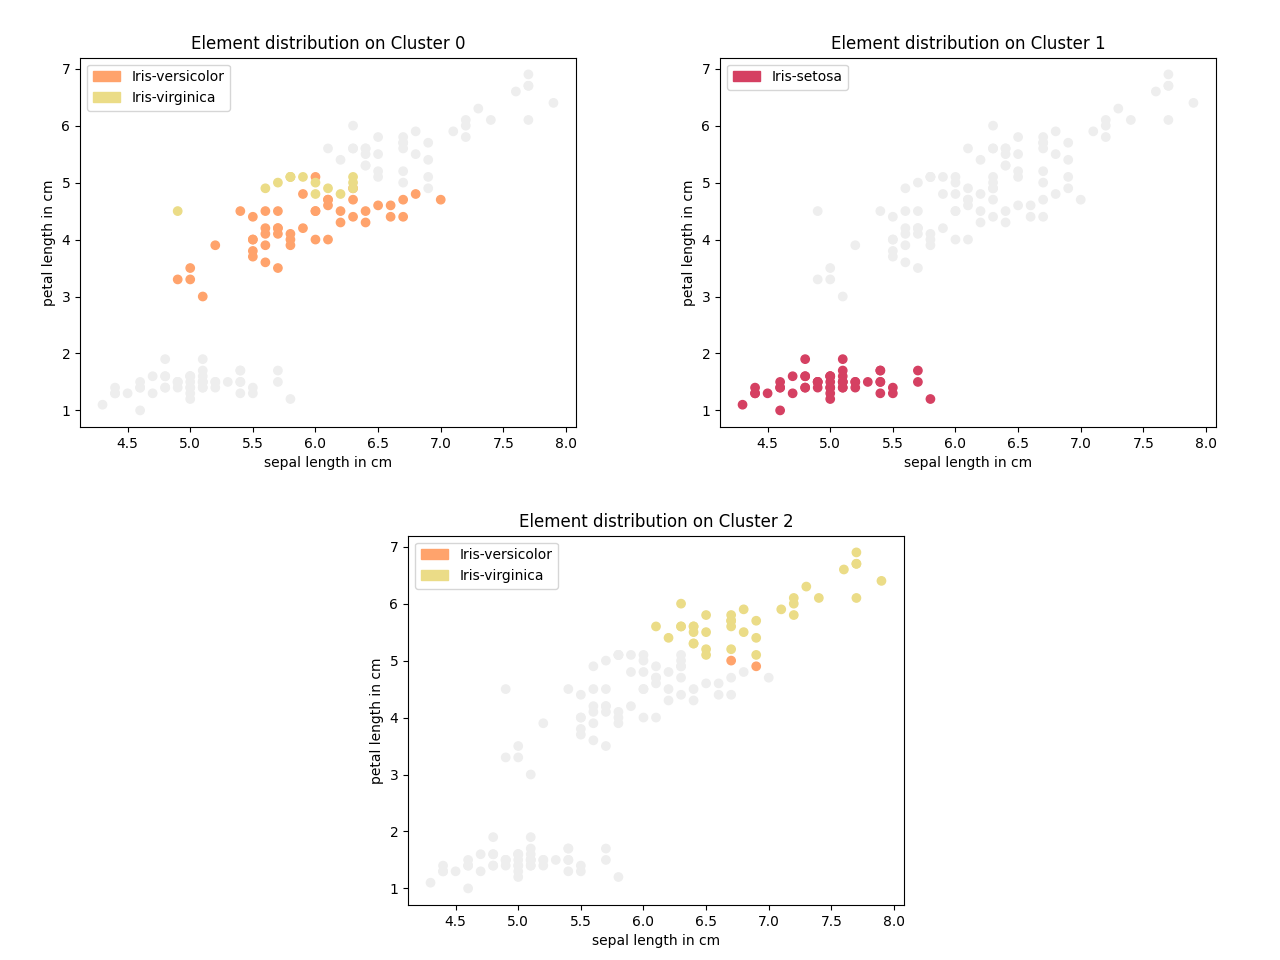
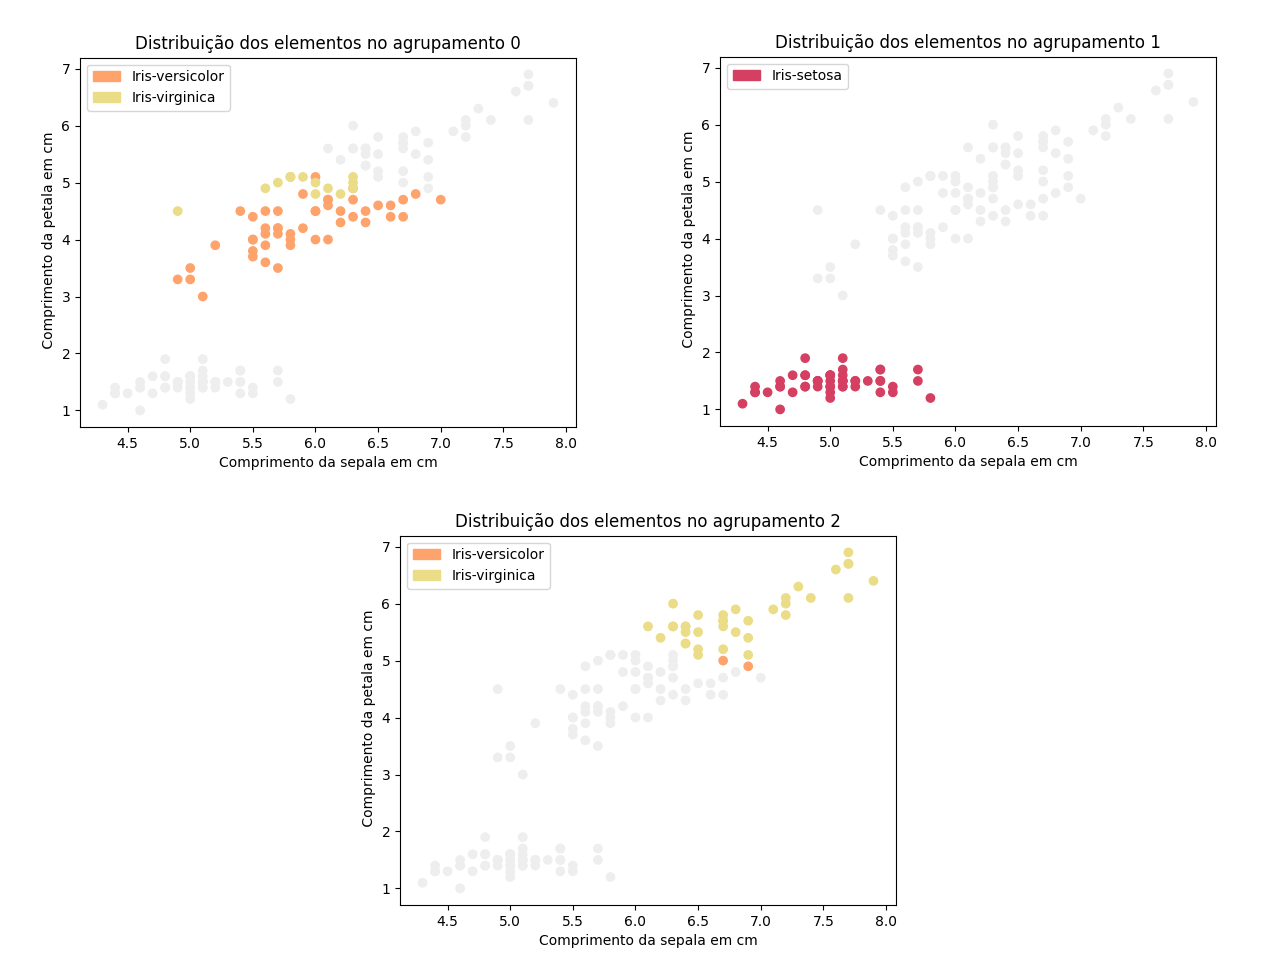
menu

diff --git a/decisionTree.py b/decisionTree.py
@@ -79,34 +79,55 @@ def cv_and_split_and_run_decisionTree(x, y, cv_value, names, class_names, train_
     print(confusion_matrix(y, result))
     return result, y
 
-def test_iris():
-    data, headers = open_file('iris.data', 'iris_header.txt')
-    x = data[:,:4]
-    y = data[:,4]
-    names=headers[:4]
-    class_names=['setosa', 'versicolour', 'virginica']
-    y_test = y
-    #result = run_decisionTree(x, y)
-    #result, y_test = split_and_run_decisionTree(x, y, 0.8)
-    result, y_test = cv_and_run_decisionTree(x, y, 10, names,class_names)
-    #build_matrix(y_test, result)
-
-def test_bcw():
-    data, headers = open_file('wdbc.data', 'breast-cancer-wisconsin_header.txt')
-    x = data [:,2:31]
-    y = data[:,1]
-    names=headers[2:31]
-    class_names = ['M', 'B']
-    #imp = SimpleImputer(missing_values=np.nan, strategy='mean')
-    #x = imp.fit_transform(x)
-    #caler = preprocessing.StandardScaler()
+def menu():
+    #iris
+    data_iris, headers_iris = open_file('iris.data', 'iris_header.txt')
+    x_iris = data_iris[:,:4]
+    y_iris = data_iris[:,4]
+    names_iris=headers_iris[:4]
+    class_names_iris=['setosa', 'versicolour', 'virginica']
+    #bcw
+    data_bcw, headers_bcw = open_file('wdbc.data', 'breast-cancer-wisconsin_header.txt')
+    x_bcw_old = data_bcw[:,2:31]
+    y_bcw = data_bcw[:,1]
+    names_bcw=headers_bcw[2:31]
+    class_names_bcw = ['M', 'B']
     scaler = preprocessing.MinMaxScaler()
-    standard_x = scaler.fit_transform(x)
-    #result, y_test = split_and_run_decisionTree(standard_x, y, 0.2)
-    #result, y_test = cv_and_run_decisionTree(standard_x, y, 10, names, class_names)
-    result, y_test = cv_and_split_and_run_decisionTree(standard_x, y, 10, names, class_names, 0.8)
-    
-    #y_test = y
-    #result = run_decisionTree(standard_x, y)
+    x_bcw = scaler.fit_transform(x_bcw_old)
+    run = True
+    while(run == True):
+        result = None
+        y_test = None
+        print('Options\n', 
+        '\t1 - Iris Training on whole dataset\n',
+        '\t2 - Iris Training on 80%\n',
+        '\t3 - Iris Training on 20%\n',
+        '\t4 - Iris 10-fold CV\n',
+        '\t5 - BCW Training on whole dataset\n',
+        '\t6 - BCW Training on 80%\n',
+        '\t7 - BCW Training on 20%\n',
+        '\t8 - BCW 10-fold CV\n',
+        '\t9 - Exit\n'
+        )
+        op = int(input('Type the option you want: '))
+        if(op == 1):
+            result = run_decisionTree(x_iris, y_iris)
+            y_test = y_iris
+        elif(op==2):
+            result, y_test = split_and_run_decisionTree(x_iris, y_iris, 0.8)
+        elif(op==3):
+            result, y_test = split_and_run_decisionTree(x_iris, y_iris, 0.2)
+        elif(op==4):
+                result, y_test = cv_and_run_decisionTree(x_iris, y_iris, 10, names_iris,class_names_iris)
+        elif(op==5):
+            result = run_decisionTree(x_bcw, y_bcw)
+        elif(op==6):
+            result, y_test = split_and_run_decisionTree(x_bcw, y_bcw, 0.8)
+        elif(op==7):
+            result, y_test = split_and_run_decisionTree(x_bcw, y_bcw, 0.2)
+        elif(op==8):
+            result, y_test = cv_and_run_decisionTree(x_bcw, y_bcw, 10, names_bcw, class_names_bcw)
+        elif(op==9):
+            run = False
 
-test_bcw()
+menu()

diff --git a/clustering.py b/clustering.py
@@ -16,8 +16,8 @@ def plot_raw_data(x_values, labels, headers, x_axys, y_axys):
     chart = plt.scatter(x=x_values[:, x_axys], y=x_values[:, y_axys], c=labels)
     plt.xlabel(headers[x_axys])
     plt.ylabel(headers[y_axys])
-    plt.title("True clusters")
-    plt.legend(*chart.legend_elements(), loc="upper right", title="Clusters")
+    plt.title("Agrupamentos originais")
+    plt.legend(*chart.legend_elements(), loc="lower right", title="Agrupamentos")
     plt.show()
 
 def count_result(result, labels):
@@ -87,7 +87,7 @@ def plot_by_cluster(x_values, labels, headers, result, x_axys, y_axys):
         chart = plt.scatter(x=x_values[:, x_axys], y=x_values[:, y_axys], c=colors)
         plt.xlabel(headers[x_axys])
         plt.ylabel(headers[y_axys])
-        plt.title("Element distribution on Cluster " + str(key))
+        plt.title("Distribuição dos elementos no agrupamento " + str(key))
         plt.xlabel(headers[x_axys])
         plt.ylabel(headers[y_axys])
         plt.legend(handles=handles)
@@ -99,7 +99,7 @@ def plot_result_data(x_values, headers, result, x_axys, y_axys):
     chart = plt.scatter(x=x_values[:, x_axys], y=x_values[:, y_axys], c=result)
     plt.xlabel(headers[x_axys])
     plt.ylabel(headers[y_axys])
-    plt.title("Clustering result")
+    plt.title("Resultado do K-means")
     plt.show()
 
 def run_kmeans(x, num_clusters):
@@ -170,7 +170,6 @@ def main():
     y_axis = int(input("which attribute do you want to see in the y-axis of the charts? "))
     plot_raw_data(x, labels,headers, x_axis, y_axis)
     plot_result_data(x, headers, result, x_axis, y_axis)
-    #plot_by_cluster(x, labels, headers, result, x_axis, y_axis)
+    plot_by_cluster(x, labels, headers, result, x_axis, y_axis)
     count_result(result, labels)
-
 main()
